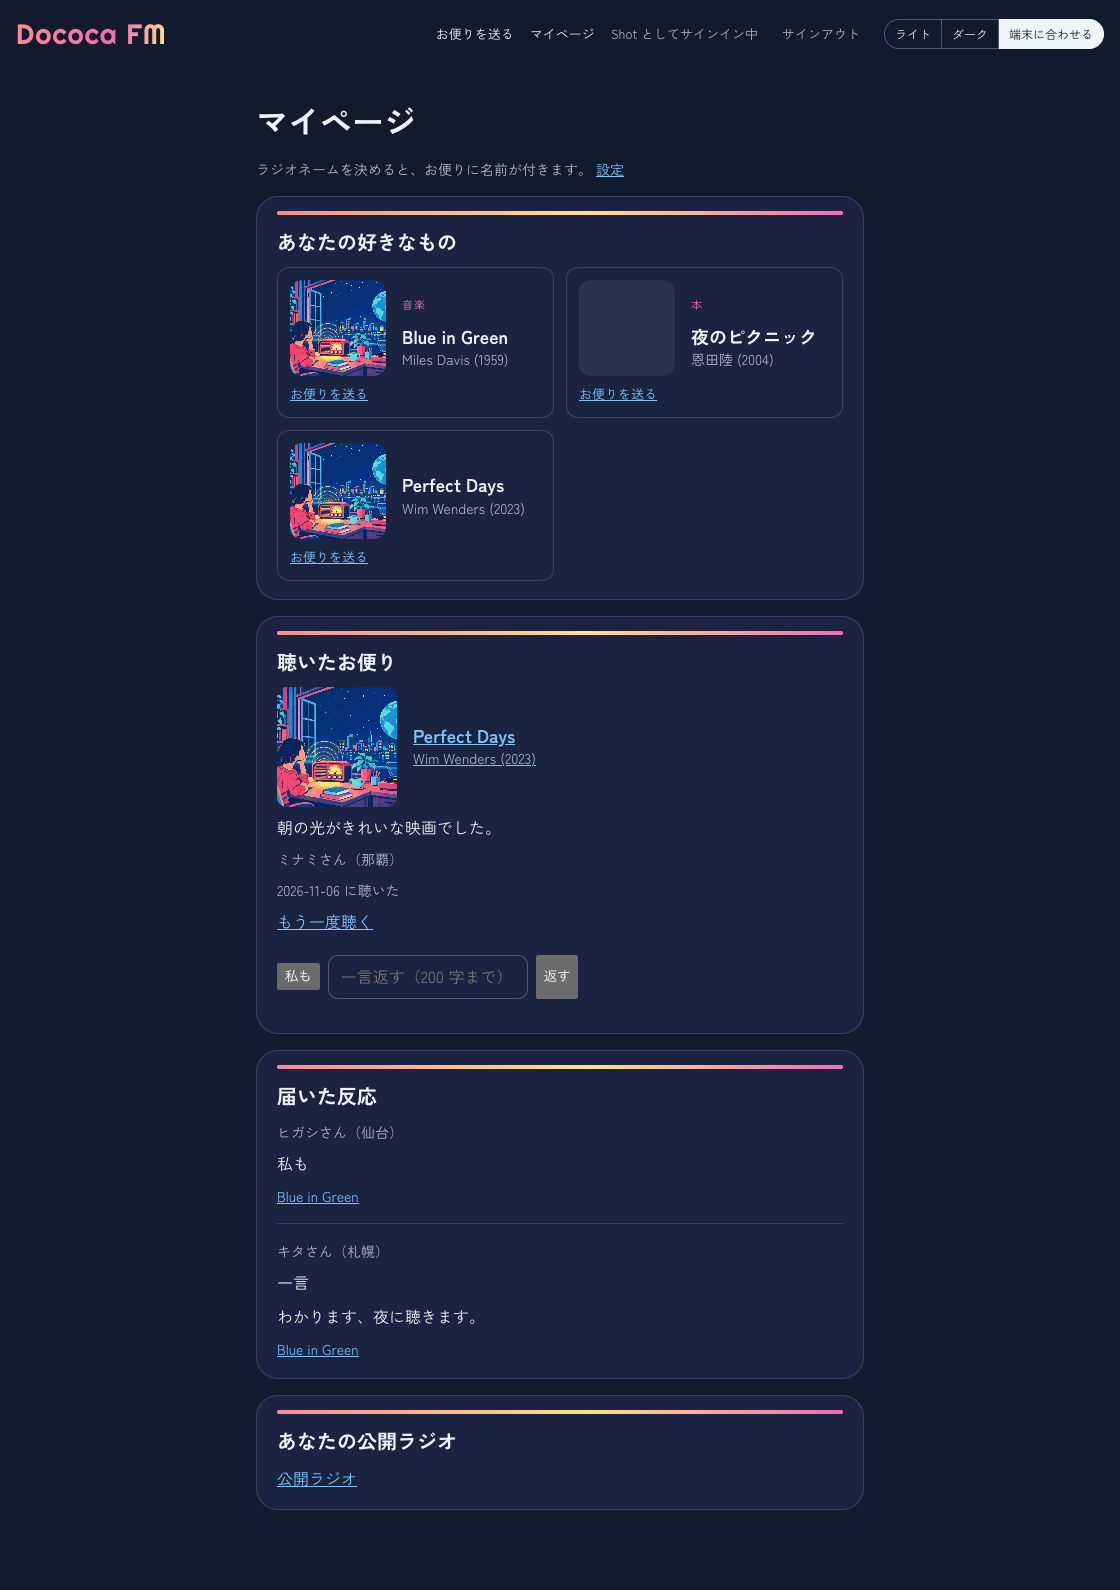
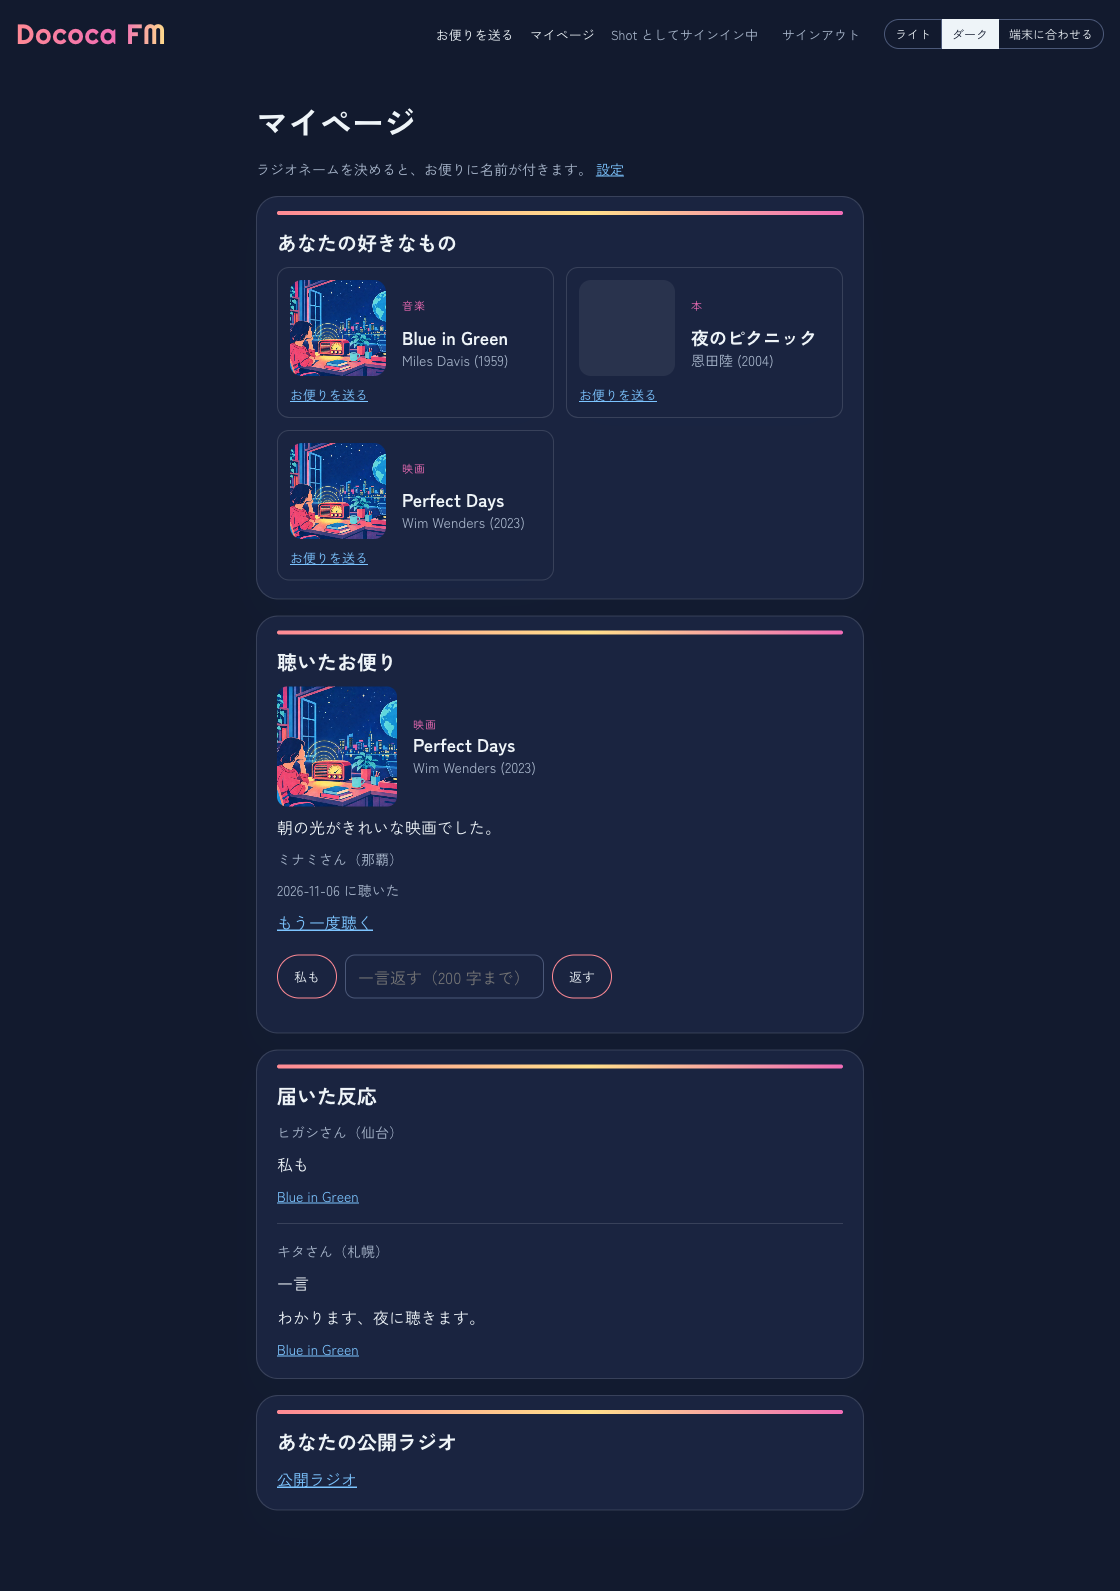
fix: my page card links and reaction buttons

diff --git a/test/worker/routes/me.test.ts b/test/worker/routes/me.test.ts
@@ -58,6 +58,8 @@ describe("GET /me", () => {
     expect(main).not.toContain('action="/auth/signout"');
     expect(main).toMatch(/<img src="https:\/\/example\.com\/a\.jpg"[^>]*width="96"[^>]*height="96"/);
     expect(main.match(/<img /g)).toHaveLength(1);
+    // The art box stays, empty, for the favourite without an image.
+    expect(main.match(/class="item-card-box"/g)).toHaveLength(2);
     expect(main).toContain(`href="/put?itemId=${noArt.id}"`);
   });
 
@@ -117,6 +119,7 @@ describe("GET /me", () => {
     expect(html).not.toContain("那覇");
     expect(html).toContain(`href="/episodes/${ep.id}?letter=${lb.id}"`);
     expect(html).toContain(`name="parentLetterId" value="${lb.id}"`);
+    expect(html).toContain(`<a class="me-card-link" href="/items/${b.id}">`);
     expect(html).not.toMatch(/\d+ ?件/);
     expect(html).not.toMatch(/\d+ letters/);
   });

diff --git a/public/app.css b/public/app.css
@@ -875,6 +875,7 @@ a.button,
 .put button,
 .takedown button,
 .start-form button,
+.letter-actions button,
 .player button,
 .player a.button {
   display: inline-flex;
@@ -896,6 +897,12 @@ a.button,
 .player button,
 .player a.button {
   padding: var(--sp-2) var(--sp-6);
+}
+
+/* 私も / 一言 under a letter: the small pill (13px), still a 44px tap. The quiet 通報 stays quiet. */
+.letter-actions button {
+  padding: var(--sp-1) var(--sp-4);
+  font-size: 13px;
 }
 
 .settings button,

diff --git a/src/worker/routes/me.tsx b/src/worker/routes/me.tsx
@@ -58,7 +58,7 @@ me.get("/me", requireSignin, async (c) => {
             <ul class="me-list">
               {heard.map((h) => (
                 <li>
-                  <a href={`/items/${h.item.id}`}>
+                  <a class="me-card-link" href={`/items/${h.item.id}`}>
                     <ItemCard item={h.item} heading="h3" lang={lang} />
                   </a>
                   <LetterText letter={h.letter} lang={lang} />
